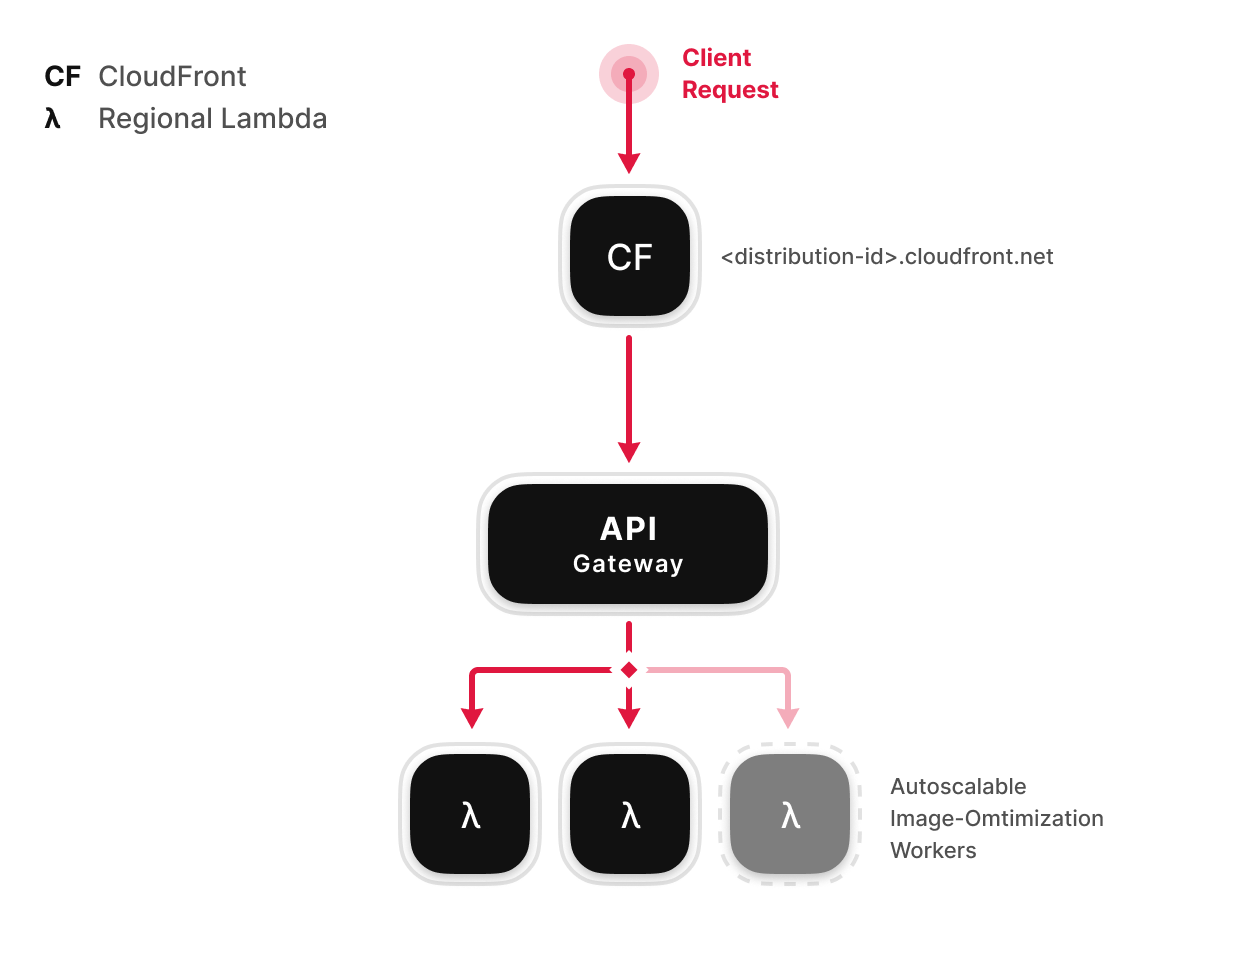
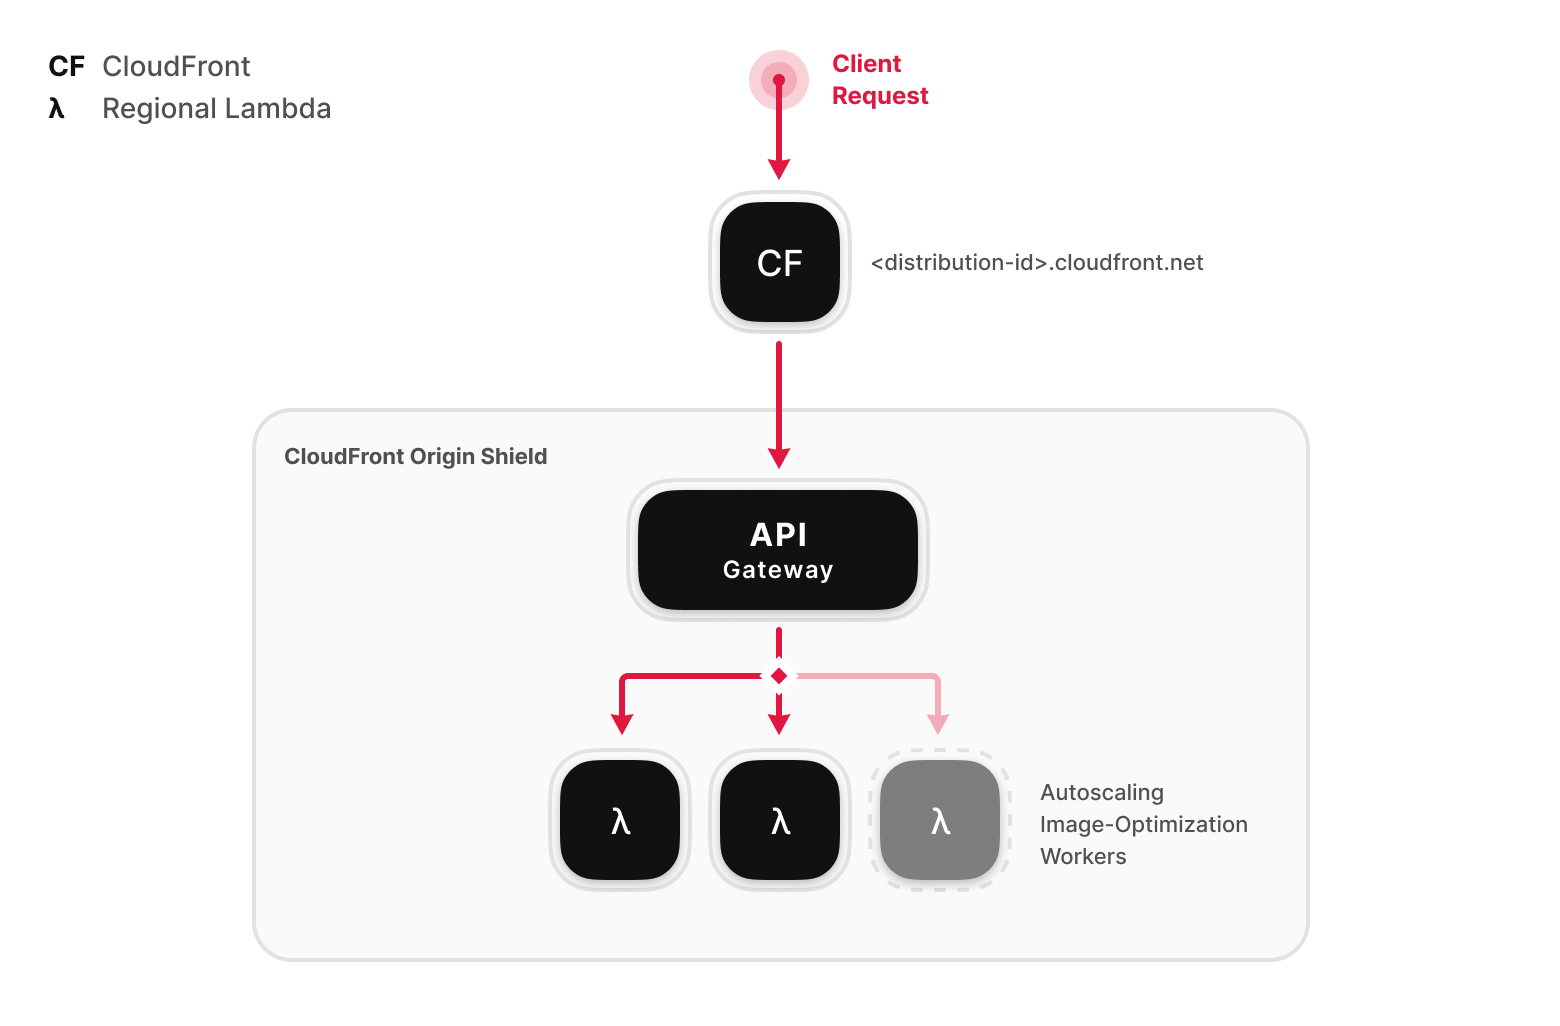
Adds Origin Shield ressources (#41)

diff --git a/README.md b/README.md
@@ -4,13 +4,14 @@
 
 A drop-in [image optimization loader](https://nextjs.org/docs/basic-features/image-optimization#loader) for the Next.js image component `next/image`.
 
-If you need a complete hosting solution for Next.js with Terraform, please check out our [Terraform Next.js module for AWS](https://registry.terraform.io/modules/dealmore/next-js/aws).
+> **Notice:** If you need a complete hosting solution for Next.js with Terraform, please check out our [Terraform Next.js module for AWS](https://registry.terraform.io/modules/dealmore/next-js/aws).
 
 ## Features
 
 - ✅ &nbsp;Terraform `v0.13+`
 - ✅ &nbsp;Serverless image processing powered by [AWS Lambda](https://aws.amazon.com/lambda/)
 - ✅ &nbsp;[Amazon CloudFront](https://aws.amazon.com/cloudfront/) powered image caching
+- ✅ &nbsp;Two-layer caching with [CloudFront Origin Shield](https://docs.aws.amazon.com/AmazonCloudFront/latest/DeveloperGuide/origin-shield.html)
 - ✅ &nbsp;Support for custom [Device Sizes](https://nextjs.org/docs/basic-features/image-optimization#device-sizes) & [Image Sizes](https://nextjs.org/docs/basic-features/image-optimization#image-sizes)
 
 ## Architecture
@@ -90,6 +91,8 @@ module.exports = {
 }
 ```
 
+Then rebuild and redeploy your Next.js application to make use of the changed configuration.
+
 ## Examples
 
 - [Next.js + Vercel](https://github.com/dealmore/terraform-aws-next-js-image-optimization/tree/main/examples/with-next-js) - Use the image optimizer together with a Next.js app deployed on Vercel.
@@ -154,8 +157,6 @@ We rely internally on the original Next.js image optimizer.
 So the versioning of the module is aligned with the version of the corresponding Next.js release.
 
 For example the [`v10.0.5`](https://github.com/dealmore/terraform-aws-next-js-image-optimization/releases/tag/v10.0.5) version of this Terraform module uses the image optimizer from the [Next.js 10.0.5 release](https://github.com/vercel/next.js/releases/tag/v10.0.5).
-
-Due to compatibility issues we are not able to provide a matching version for every Next.js release.
 
 Please note that we only publish versions `>=10.0.5`, for a full list of available versions see the published versions in the [Terraform Registry](https://registry.terraform.io/modules/dealmore/next-js-image-optimization/aws).
 
